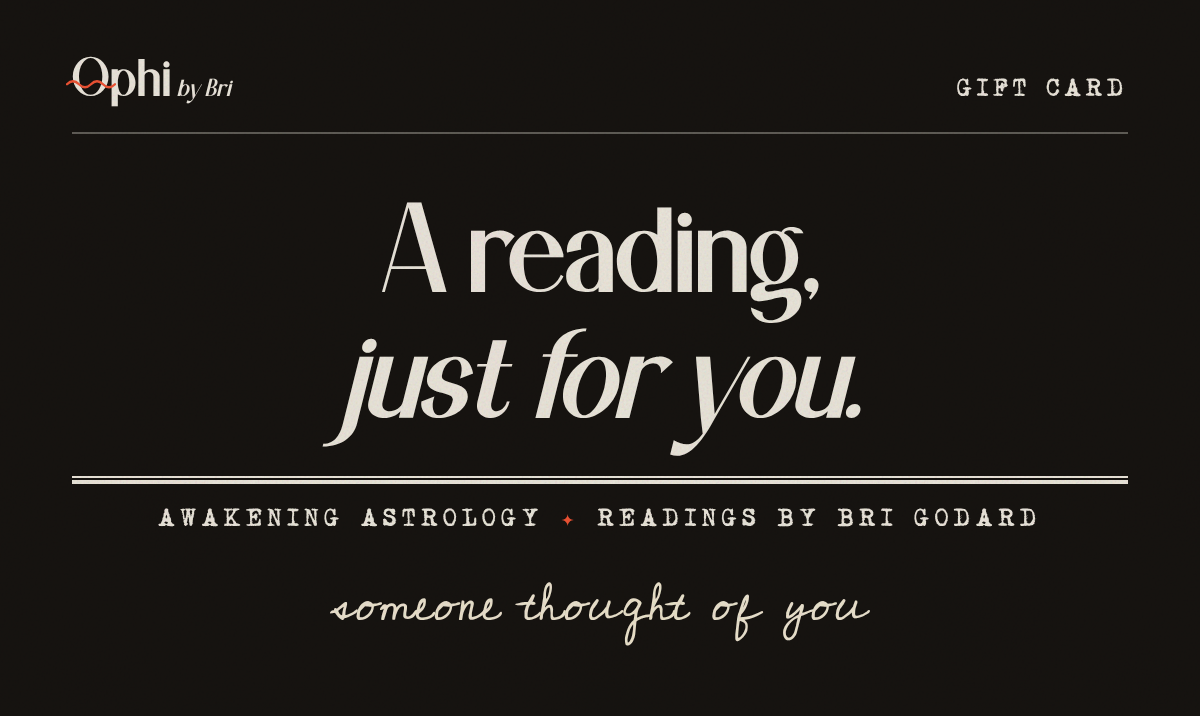
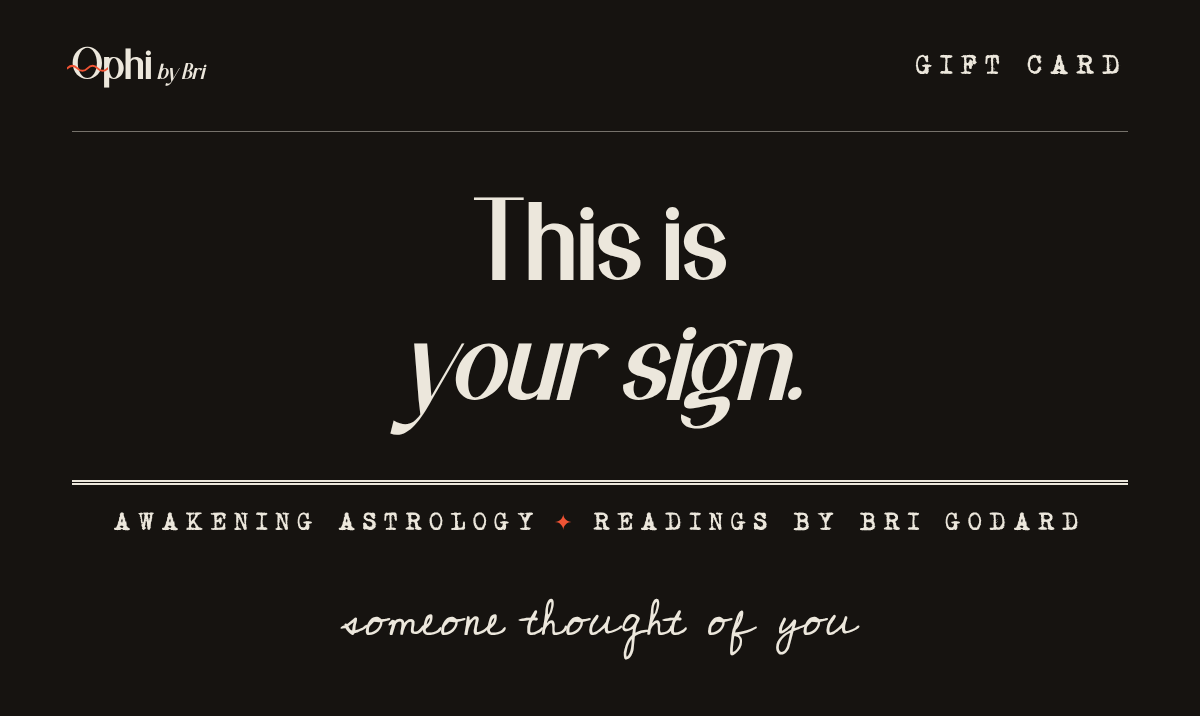
Gift email header: 'This is your sign.' (Bri, 3 Nov)
Claude-Session: https://claude.ai/code/session_016a1P3APGb6PUkwFe7VrJqS

diff --git a/tools/email/gift-card.html b/tools/email/gift-card.html
@@ -42,7 +42,7 @@
 
   <!-- masthead -->
   <tr><td style="background:#161310;border-top:7px solid #161310;">
-    <a href="https://ophibybri.com/" style="text-decoration:none;"><img src="https://ophibybri.com/assets/email/gift-header.png" width="600" alt="Ophi by Bri gift card: A reading, just for you. Awakening Astrology, readings by Bri Godard." style="display:block;width:100%;max-width:600px;height:auto;border:0;color:#ece7dc;font-family:Georgia,serif;font-size:28px;background:#161310;"></a>
+    <a href="https://ophibybri.com/" style="text-decoration:none;"><img src="https://ophibybri.com/assets/email/gift-header.png" width="600" alt="Ophi by Bri gift card: This is your sign. Someone thought of you. Awakening Astrology, readings by Bri Godard." style="display:block;width:100%;max-width:600px;height:auto;border:0;color:#ece7dc;font-family:Georgia,serif;font-size:28px;background:#161310;"></a>
   </td></tr>
   <tr><td style="line-height:0;font-size:0;"><img src="https://ophibybri.com/assets/email/lace.png" width="600" alt="" style="display:block;width:100%;max-width:600px;height:auto;border:0;"></td></tr>
 
